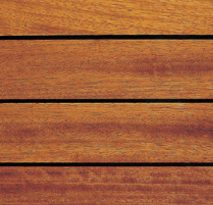
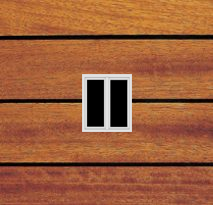
c

Changed region(s): [[0.3662, 0.3512, 0.6197, 0.6439]]

diff --git a/javaScript/BoxesTextures.js b/javaScript/BoxesTextures.js
@@ -71,7 +71,7 @@ class BoxesTextures {
 
 
     addThreeBox() {
-        const threeTexture = new THREE.TextureLoader(this.loadingManager).load('../brrrr/assets/rest.png');
+        const threeTexture = new THREE.TextureLoader(this.loadingManager).load('../brrrr/assets/restOkno.png');
         this.boxes.three.mesh = new THREE.Mesh(new THREE.BoxGeometry(40, 40, 40), new THREE.MeshBasicMaterial({ map: threeTexture }));
         this.scene.add(this.boxes.three.mesh);
         this.boxes.three.body = new CANNON.Body({ mass: 1100 });
@@ -82,7 +82,7 @@ class BoxesTextures {
     }
 
     addRestBox() {
-        const restTexture = new THREE.TextureLoader(this.loadingManager).load('../brrrr/assets/rest.png');
+        const restTexture = new THREE.TextureLoader(this.loadingManager).load('../brrrr/assets/restOkno.png');
         this.boxes.rest.mesh = new THREE.Mesh(new THREE.BoxGeometry(40, 40, 40), new THREE.MeshBasicMaterial({ map: restTexture }));
         this.scene.add(this.boxes.rest.mesh);
         this.boxes.rest.body = new CANNON.Body({ mass: 1100 });
@@ -104,7 +104,7 @@ class BoxesTextures {
     }
 
     addRwdBox() {
-        const rwdTexture = new THREE.TextureLoader(this.loadingManager).load('../brrrr/assets/rest.png');
+        const rwdTexture = new THREE.TextureLoader(this.loadingManager).load('../brrrr/assets/restOkno.png');
         this.boxes.rwd.mesh = new THREE.Mesh(new THREE.BoxGeometry(40, 40, 40), new THREE.MeshBasicMaterial({ map: rwdTexture }));
         this.scene.add(this.boxes.rwd.mesh);
         this.boxes.rwd.body = new CANNON.Body({ mass: 1100 });
@@ -117,7 +117,7 @@ class BoxesTextures {
 
 
     addAngularBox() {
-        const angularTexture = new THREE.TextureLoader(this.LoadingManager).load('../brrrr/assets/rest.png');
+        const angularTexture = new THREE.TextureLoader(this.LoadingManager).load('../brrrr/assets/restOkno.png');
         this.boxes.angular.mesh = new THREE.Mesh(new THREE.BoxGeometry(40, 40, 40), new THREE.MeshBasicMaterial({ map: angularTexture }));
         this.scene.add(this.boxes.angular.mesh);
         this.boxes.angular.body = new CANNON.Body({ mass: 1100 });
@@ -128,7 +128,7 @@ class BoxesTextures {
     }
 
     addCssBox() {
-        const cssTexture = new THREE.TextureLoader(this.LoadingManager).load('../brrrr/assets/rest.png');
+        const cssTexture = new THREE.TextureLoader(this.LoadingManager).load('../brrrr/assets/restOkno.png');
         this.boxes.css.mesh = new THREE.Mesh(new THREE.BoxGeometry(40, 40, 40), new THREE.MeshBasicMaterial({ map: cssTexture }));
         this.scene.add(this.boxes.css.mesh);
         this.boxes.css.body = new CANNON.Body({ mass: 1100 });
@@ -161,7 +161,7 @@ class BoxesTextures {
     }
 
     addCSharpBox() {
-        const cSharpTexture = new THREE.TextureLoader(this.loadingManager).load('../brrrr/assets/rest.png');
+        const cSharpTexture = new THREE.TextureLoader(this.loadingManager).load('../brrrr/assets/restOkno.png');
         this.boxes.cSharp.mesh = new THREE.Mesh(new THREE.BoxGeometry(40, 40, 40), new THREE.MeshBasicMaterial({ map: cSharpTexture }));
         this.scene.add(this.boxes.cSharp.mesh);
         this.boxes.cSharp.body = new CANNON.Body({ mass: 1100 });
@@ -182,7 +182,7 @@ class BoxesTextures {
         this.world.addBody(this.boxes.javaScript.body);
     }
     addTypeScriptBox() {
-        const typeScriptTexture = new THREE.TextureLoader(this.loadingManager).load('../brrrr/assets/rest.png');
+        const typeScriptTexture = new THREE.TextureLoader(this.loadingManager).load('../brrrr/assets/restOkno.png');
         this.boxes.typeScript.mesh = new THREE.Mesh(new THREE.BoxGeometry(40, 40, 40), new THREE.MeshBasicMaterial({ map: typeScriptTexture }));
         this.scene.add(this.boxes.typeScript.mesh);
         this.boxes.typeScript.body = new CANNON.Body({ mass: 1100 });
